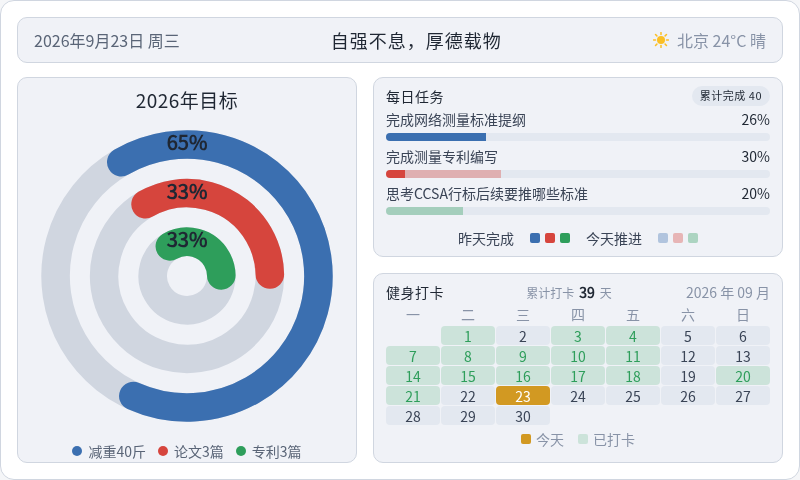
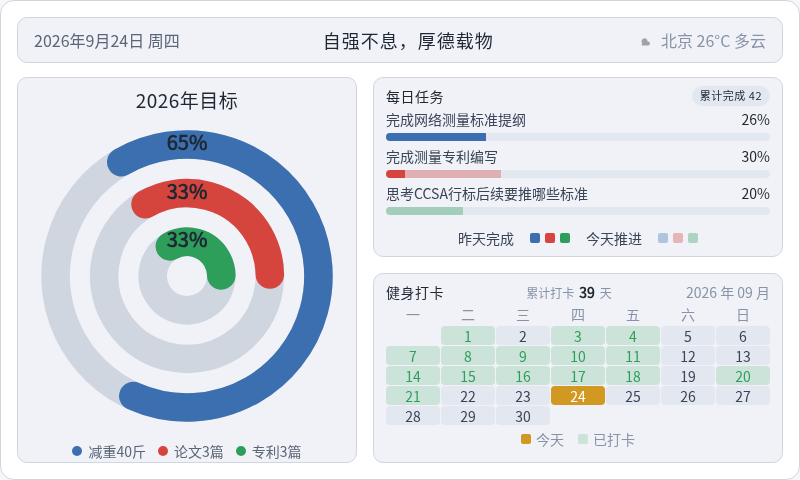
chore: 每日看板刷新 2026-09-24

diff --git a/output/dashboard/dashboard.html b/output/dashboard/dashboard.html
@@ -185,11 +185,11 @@
 <body>
   <div class="dash">
     <div class="topbar">
-      <div class="tb-date" id="tbDate">2026年9月23日 周三</div>
+      <div class="tb-date" id="tbDate">2026年9月24日 周四</div>
       <div class="tb-slogan">自强不息，厚德载物</div>
       <div class="tb-weather">
-        <svg width="16" height="16" viewBox="0 0 16 16" aria-hidden="true"><circle cx="8" cy="8" r="4" fill="#fbbf24"/><g stroke="#fbbf24" stroke-width="1.5" stroke-linecap="round"><line x1="8" y1="0.5" x2="8" y2="2.5"/><line x1="8" y1="13.5" x2="8" y2="15.5"/><line x1="0.5" y1="8" x2="2.5" y2="8"/><line x1="13.5" y1="8" x2="15.5" y2="8"/><line x1="2.5" y1="2.5" x2="3.9" y2="3.9"/><line x1="12.1" y1="12.1" x2="13.5" y2="13.5"/><line x1="13.5" y1="2.5" x2="12.1" y2="3.9"/><line x1="3.9" y1="12.1" x2="2.5" y2="13.5"/></g></svg>
-        <span>北京 24°C 晴</span>
+        <svg width="16" height="16" viewBox="0 0 16 16" aria-hidden="true"><path d="M5 11 a3 3 0 1 1 5.5 -1.5 h0.5 a2 2 0 1 1 0 4 H5 a2.5 2.5 0 0 1 0 -2.5z" fill="#9ca3af"/></svg>
+        <span>北京 26°C 多云</span>
       </div>
     </div>
     <div class="content">
@@ -210,7 +210,7 @@
     </div>
     <div class="col-right">
       <div class="panel tasks-panel">
-        <div class="panel-title" style="color:#1f2733">每日任务<span class="task-done-count">累计完成  40</span></div>
+        <div class="panel-title" style="color:#1f2733">每日任务<span class="task-done-count">累计完成  42</span></div>
         <div class="task">
           <div class="task-head"><span style="color:#3a4456">完成网络测量标准提纲</span><span class="task-val" style="color:#1f2733">26%</span></div>
           <div class="bar">
@@ -248,7 +248,7 @@
           <span class="cal-date">2026 年 09 月</span>
         </div>
         <div class="cal-grid wk"><span>一</span><span>二</span><span>三</span><span>四</span><span>五</span><span>六</span><span>日</span></div>
-        <div class="cal-grid"><span class="cell empty"></span><span class="cell done" style="background:rgba(46,158,91,0.18);color:#2e9e5b">1</span><span class="cell" style="background:#e3e8f0;color:#3a4456">2</span><span class="cell done" style="background:rgba(46,158,91,0.18);color:#2e9e5b">3</span><span class="cell done" style="background:rgba(46,158,91,0.18);color:#2e9e5b">4</span><span class="cell" style="background:#e3e8f0;color:#3a4456">5</span><span class="cell" style="background:#e3e8f0;color:#3a4456">6</span><span class="cell done" style="background:rgba(46,158,91,0.18);color:#2e9e5b">7</span><span class="cell done" style="background:rgba(46,158,91,0.18);color:#2e9e5b">8</span><span class="cell done" style="background:rgba(46,158,91,0.18);color:#2e9e5b">9</span><span class="cell done" style="background:rgba(46,158,91,0.18);color:#2e9e5b">10</span><span class="cell done" style="background:rgba(46,158,91,0.18);color:#2e9e5b">11</span><span class="cell" style="background:#e3e8f0;color:#3a4456">12</span><span class="cell" style="background:#e3e8f0;color:#3a4456">13</span><span class="cell done" style="background:rgba(46,158,91,0.18);color:#2e9e5b">14</span><span class="cell done" style="background:rgba(46,158,91,0.18);color:#2e9e5b">15</span><span class="cell done" style="background:rgba(46,158,91,0.18);color:#2e9e5b">16</span><span class="cell done" style="background:rgba(46,158,91,0.18);color:#2e9e5b">17</span><span class="cell done" style="background:rgba(46,158,91,0.18);color:#2e9e5b">18</span><span class="cell" style="background:#e3e8f0;color:#3a4456">19</span><span class="cell done" style="background:rgba(46,158,91,0.18);color:#2e9e5b">20</span><span class="cell done" style="background:rgba(46,158,91,0.18);color:#2e9e5b">21</span><span class="cell" style="background:#e3e8f0;color:#3a4456">22</span><span class="cell today" style="background:#d29922;color:#ffffff">23</span><span class="cell" style="background:#e3e8f0;color:#3a4456">24</span><span class="cell" style="background:#e3e8f0;color:#3a4456">25</span><span class="cell" style="background:#e3e8f0;color:#3a4456">26</span><span class="cell" style="background:#e3e8f0;color:#3a4456">27</span><span class="cell" style="background:#e3e8f0;color:#3a4456">28</span><span class="cell" style="background:#e3e8f0;color:#3a4456">29</span><span class="cell" style="background:#e3e8f0;color:#3a4456">30</span></div>
+        <div class="cal-grid"><span class="cell empty"></span><span class="cell done" style="background:rgba(46,158,91,0.18);color:#2e9e5b">1</span><span class="cell" style="background:#e3e8f0;color:#3a4456">2</span><span class="cell done" style="background:rgba(46,158,91,0.18);color:#2e9e5b">3</span><span class="cell done" style="background:rgba(46,158,91,0.18);color:#2e9e5b">4</span><span class="cell" style="background:#e3e8f0;color:#3a4456">5</span><span class="cell" style="background:#e3e8f0;color:#3a4456">6</span><span class="cell done" style="background:rgba(46,158,91,0.18);color:#2e9e5b">7</span><span class="cell done" style="background:rgba(46,158,91,0.18);color:#2e9e5b">8</span><span class="cell done" style="background:rgba(46,158,91,0.18);color:#2e9e5b">9</span><span class="cell done" style="background:rgba(46,158,91,0.18);color:#2e9e5b">10</span><span class="cell done" style="background:rgba(46,158,91,0.18);color:#2e9e5b">11</span><span class="cell" style="background:#e3e8f0;color:#3a4456">12</span><span class="cell" style="background:#e3e8f0;color:#3a4456">13</span><span class="cell done" style="background:rgba(46,158,91,0.18);color:#2e9e5b">14</span><span class="cell done" style="background:rgba(46,158,91,0.18);color:#2e9e5b">15</span><span class="cell done" style="background:rgba(46,158,91,0.18);color:#2e9e5b">16</span><span class="cell done" style="background:rgba(46,158,91,0.18);color:#2e9e5b">17</span><span class="cell done" style="background:rgba(46,158,91,0.18);color:#2e9e5b">18</span><span class="cell" style="background:#e3e8f0;color:#3a4456">19</span><span class="cell done" style="background:rgba(46,158,91,0.18);color:#2e9e5b">20</span><span class="cell done" style="background:rgba(46,158,91,0.18);color:#2e9e5b">21</span><span class="cell" style="background:#e3e8f0;color:#3a4456">22</span><span class="cell" style="background:#e3e8f0;color:#3a4456">23</span><span class="cell today" style="background:#d29922;color:#ffffff">24</span><span class="cell" style="background:#e3e8f0;color:#3a4456">25</span><span class="cell" style="background:#e3e8f0;color:#3a4456">26</span><span class="cell" style="background:#e3e8f0;color:#3a4456">27</span><span class="cell" style="background:#e3e8f0;color:#3a4456">28</span><span class="cell" style="background:#e3e8f0;color:#3a4456">29</span><span class="cell" style="background:#e3e8f0;color:#3a4456">30</span></div>
         <div class="cal-legend">
           <span style="color:#8893a7"><i class="sw" style="background:#d29922"></i>今天</span>
           <span style="color:#8893a7"><i class="sw" style="background:rgba(46,158,91,0.18)"></i>已打卡</span>
